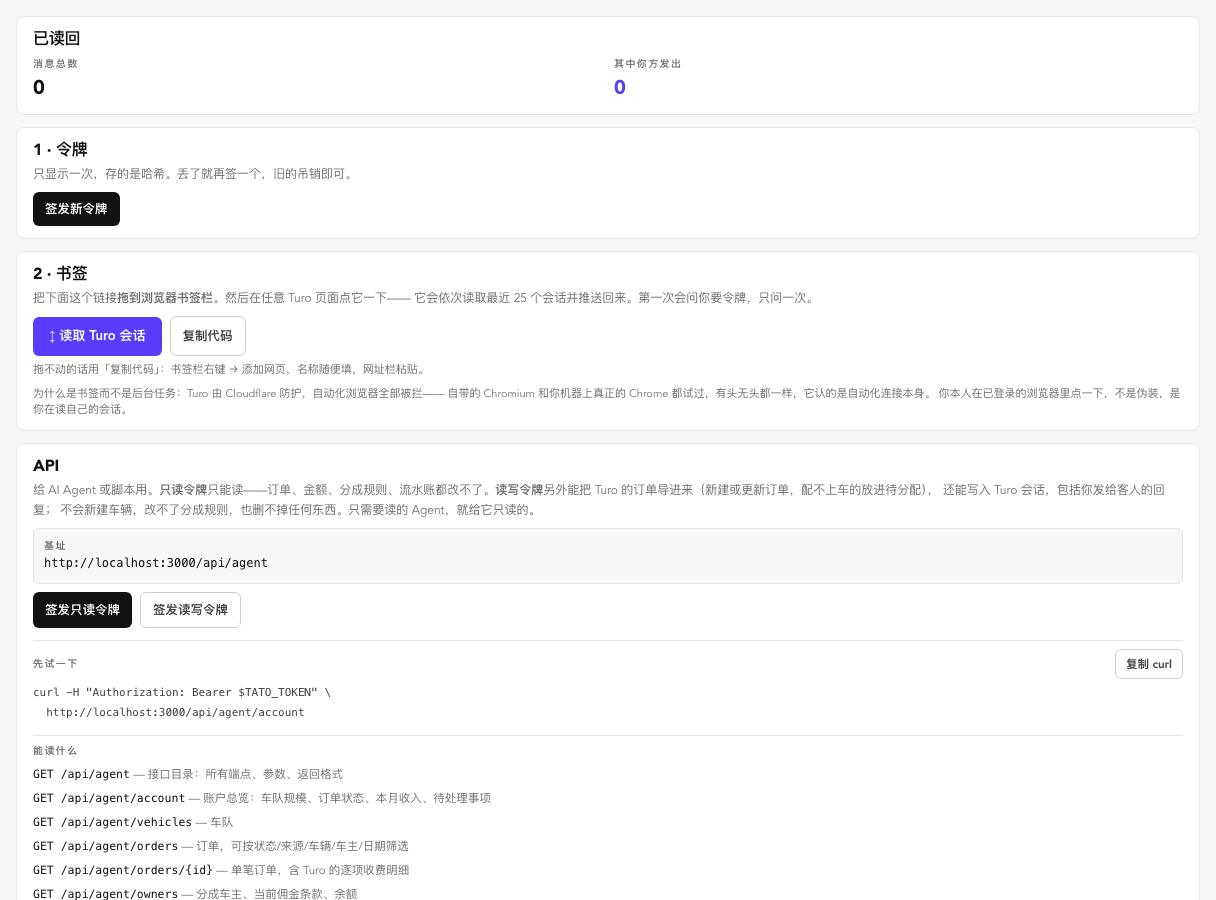
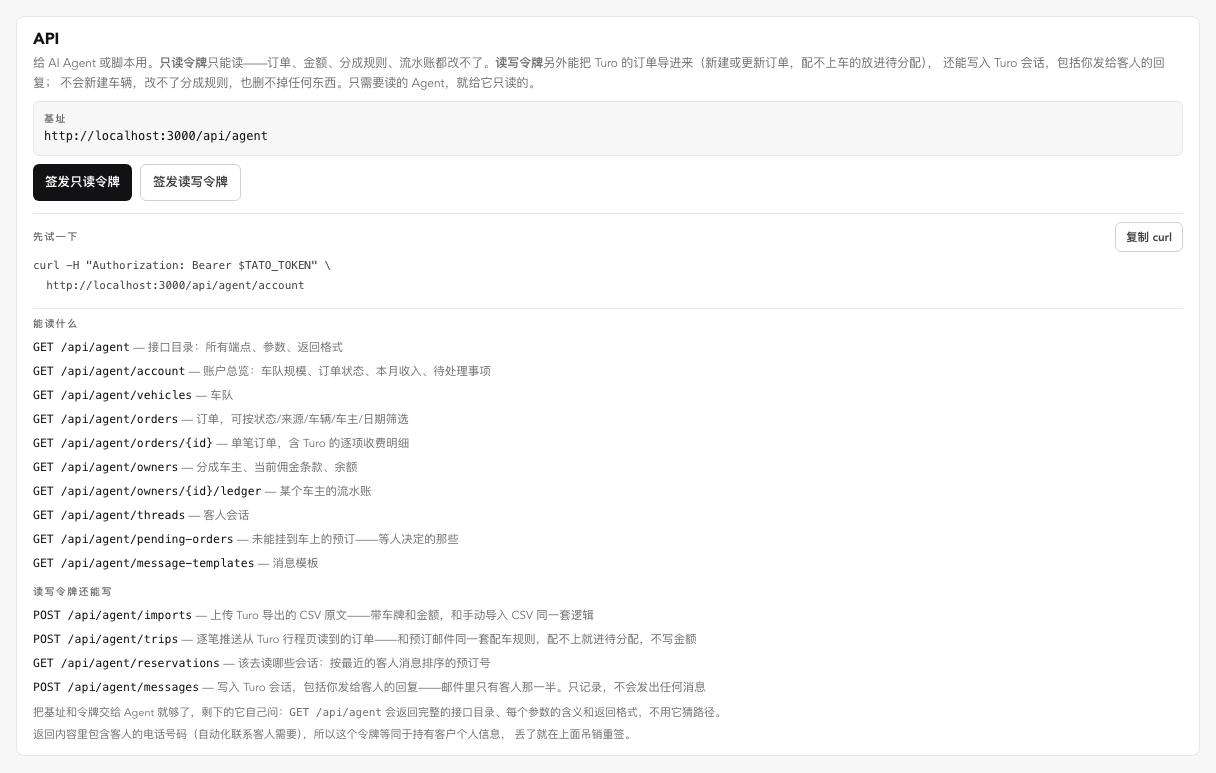
The /agent page is called API tokens, and the help manual describes it as it now is (v1.63.2)
Follows the Turo reader's removal in v1.63.1: the page's title was
still the reader's, and the help manual's API-token steps marked an
"issue a token" button that no longer exists. They now mark the
read-only and read-write buttons and copy curl; pictures retaken.

diff --git a/app/(admin)/help/guides/en.ts b/app/(admin)/help/guides/en.ts
@@ -772,8 +772,8 @@ export const guides: Guide[] = [
         heading: "API tokens",
         shot: "settings-agent",
         steps: [
-          "First 「签发新令牌」 (issue a token). It is shown once; if lost, issue another and revoke the old one.",
-          "「签发只读令牌」 (read-only) reads trips, amounts, owner terms and ledgers; 「签发读写令牌」 (read-write) can also import Turo trips and write Turo conversations.",
+          "Press 「签发只读令牌」 (read-only) or 「签发读写令牌」 (read-write). Read-only reads trips, amounts, owner terms and ledgers; read-write can also import Turo trips and write Turo conversations. A token is shown once, so copy it straight away.",
+          "「复制 curl」 (copy curl) gives a test command to try the token with. Issued tokens are listed below; if one is lost or no longer needed, 「吊销」 (revoke) it and issue another.",
         ],
       },
       {

diff --git a/app/(admin)/help/guides/zh.ts b/app/(admin)/help/guides/zh.ts
@@ -778,8 +778,8 @@ export const guides: Guide[] = [
         heading: "API 令牌",
         shot: "settings-agent",
         steps: [
-          "先点「签发新令牌」。令牌只显示一次，丢了就再签一个，旧的吊销即可。",
-          "「签发只读令牌」只能读订单、金额、分成规则和流水账；「签发读写令牌」还能导入 Turo 订单、写入 Turo 会话。",
+          "点「签发只读令牌」或「签发读写令牌」。只读令牌只能读订单、金额、分成规则和流水账；读写令牌还能导入 Turo 订单、写入 Turo 会话。令牌只显示一次，签发后马上复制。",
+          "「复制 curl」拿到一条测试命令，把令牌换进去就能试。下面列着已签发的令牌，丢了或不用了点「吊销」，再签一个新的。",
         ],
       },
       {

diff --git a/lib/i18n/messages/shell.ts b/lib/i18n/messages/shell.ts
@@ -45,7 +45,7 @@ export const shellMessages = {
         assistant: "Assistant",
         guestMessages: "Messages",
         turoUpdates: "Updates",
-        agent: "Turo reader",
+        agent: "API tokens",
         help: "Help",
         groupOperations: "Operations",
         groupFleet: "Fleet",
@@ -116,7 +116,7 @@ export const shellMessages = {
         assistant: "助理",
         guestMessages: "客人消息",
         turoUpdates: "动态更新",
-        agent: "Turo 读取器",
+        agent: "API 令牌",
         help: "帮助手册",
         groupOperations: "运营",
         groupFleet: "车队",

diff --git a/app/(admin)/help/shots/team.ts b/app/(admin)/help/shots/team.ts
@@ -190,8 +190,8 @@ export const accountShots: Shot[] = [
     id: "settings-agent",
     path: "/agent",
     marks: [
-      { step: 1, target: { role: "button", name: "签发新令牌" } },
-      { step: 2, target: { role: "button", name: "签发只读令牌" } },
+      { step: 1, target: { role: "button", name: "签发只读令牌" } },
+      { step: 2, target: { role: "button", name: "复制 curl" } },
     ],
   },
 ];

diff --git a/lib/i18n/zh-hant/shell.ts b/lib/i18n/zh-hant/shell.ts
@@ -39,7 +39,7 @@ export const shellMessages = {
         assistant: "助理",
         guestMessages: "客人訊息",
         turoUpdates: "動態更新",
-        agent: "Turo 讀取器",
+        agent: "API 令牌",
         help: "幫助手冊",
         groupOperations: "運營",
         groupFleet: "車隊",

diff --git a/CHANGELOG.md b/CHANGELOG.md
@@ -1,5 +1,15 @@
 # Changelog
 
+## v1.63.2 - 2026-10-10
+
+### The /agent page is called API tokens, and the help manual describes it as it now is
+
+- With the Turo reader gone (v1.63.1), /agent holds only API tokens, so
+  its title follows: "API 令牌" / "API tokens" instead of "Turo reader".
+- The help manual's API-token section no longer points at the removed
+  "issue a token" button: it marks the read-only and read-write buttons
+  and "copy curl", and says where tokens are revoked. Pictures retaken.
+
 ## v1.63.1 - 2026-10-10
 
 ### The Turo reader bookmark is gone
